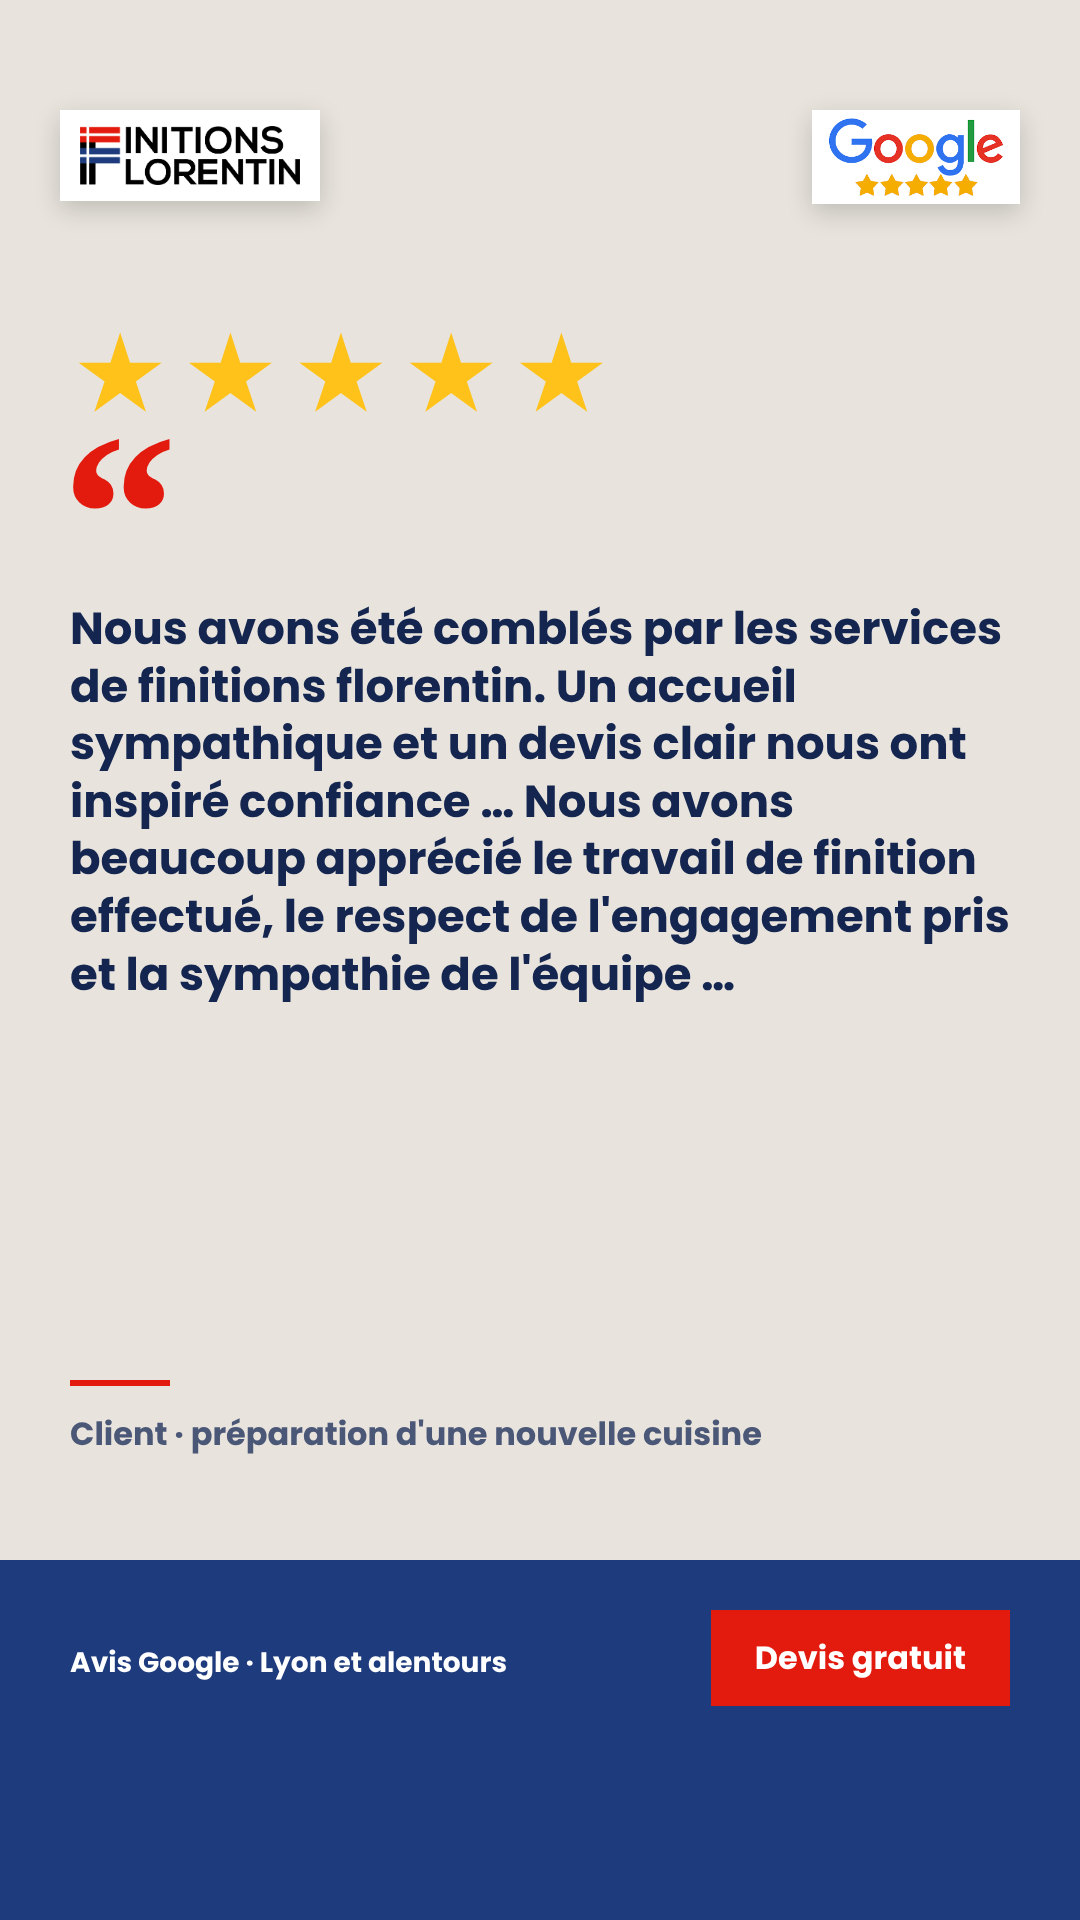
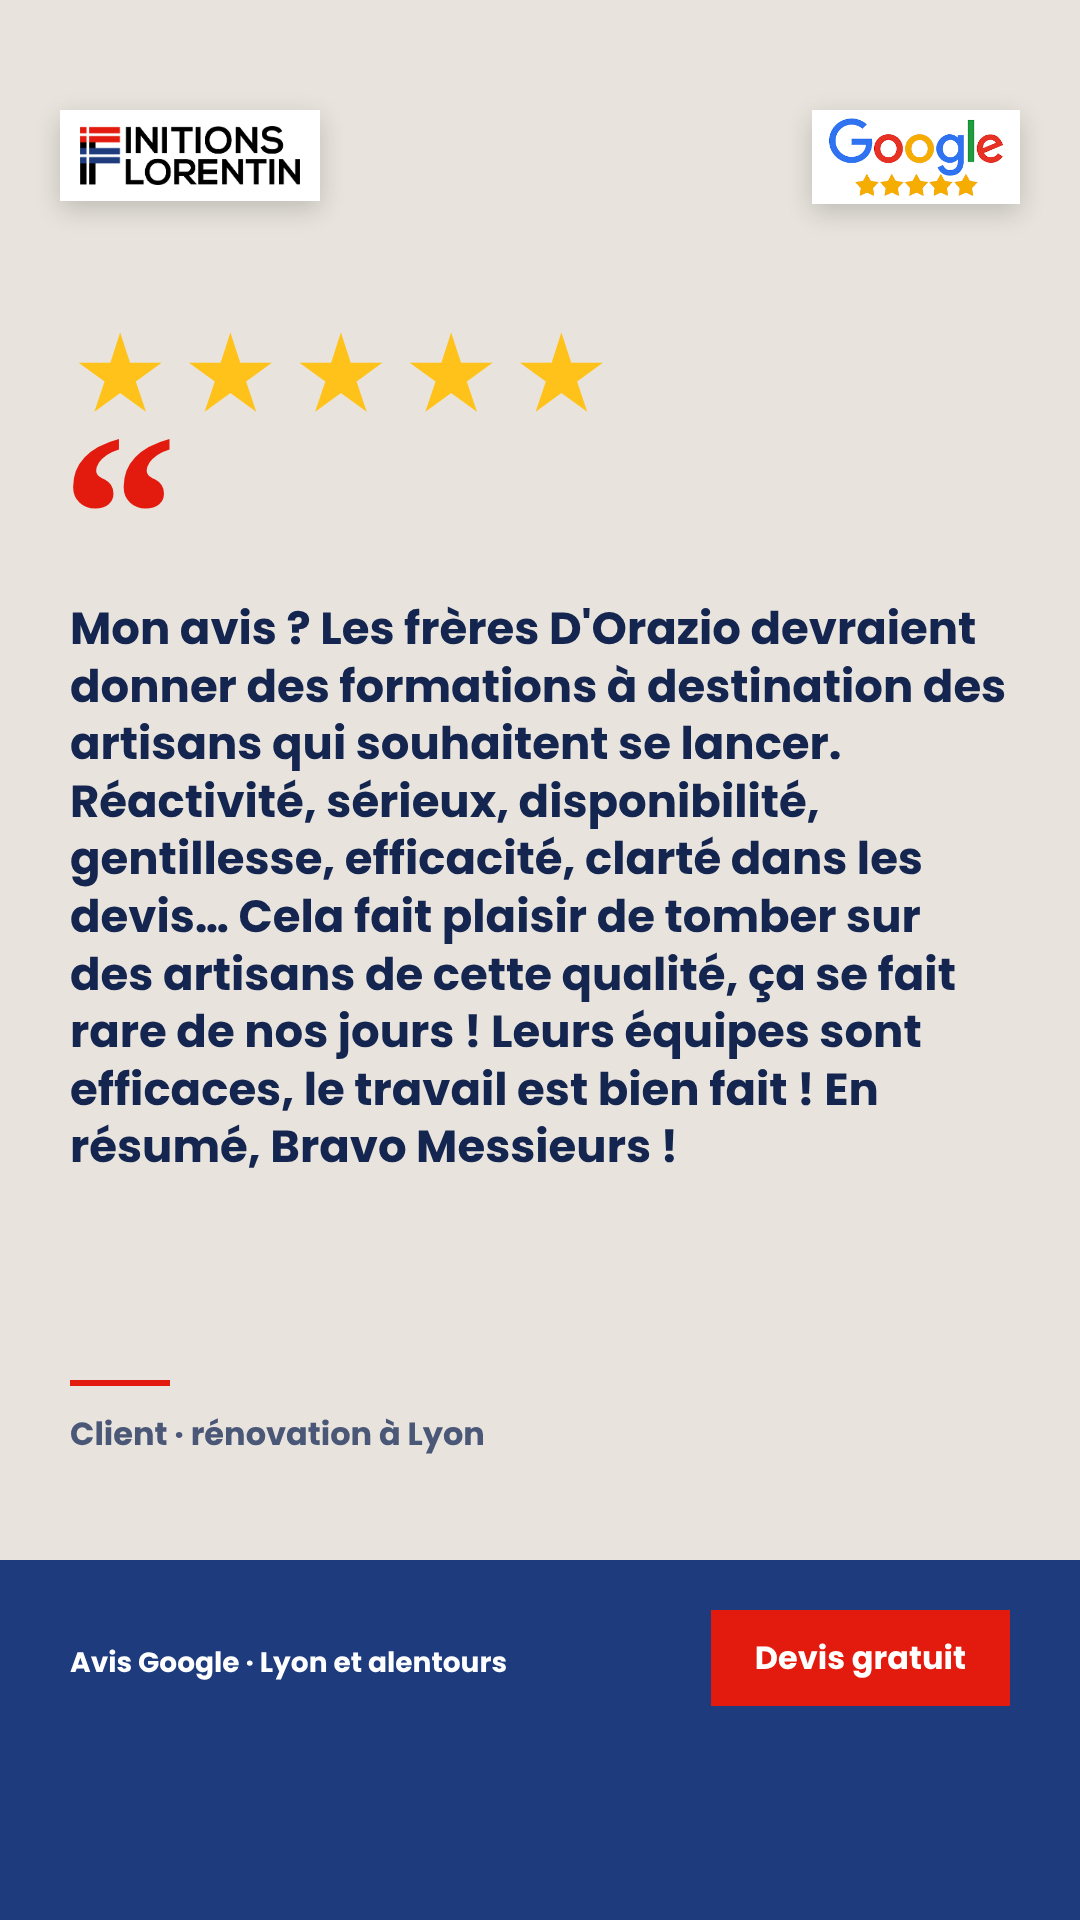
Stories avis: sans Josephine (9 stories)
Claude-Session: https://claude.ai/code/session_01LyxsXe8xqb1EZ7c4QQAmih

Changed region(s): [[0.0611, 0.3125, 0.9472, 0.625], [0.2444, 0.7188, 0.7028, 0.75], [0.1833, 0.7188, 0.2139, 0.75]]

diff --git a/tools/story_avis.py b/tools/story_avis.py
@@ -14,7 +14,6 @@ AVIS=[
 ("Le chantier a été rapide, bien préparé au préalable, et les travaux très bien effectués. Le suivi client a également été très satisfaisant. Je recommande donc cette entreprise que je remercie par ailleurs pour son professionnalisme.","Client · rénovation d'un appartement"),
 ("Monsieur D'Orazio et son équipe sont intervenus avec une contrainte, de mon côté, de travaux à réaliser au plus vite. Les délais ont été respectés et la qualité était au rendez-vous ! Je recommande grandement Finitions Florentin et son équipe. Un grand merci pour leur professionnalisme !","Client · travaux à réaliser au plus vite"),
 ("Nous avons fait appel à la société Finitions Florentin pour refaire notre salle de bains et notre wc (murs, plafond, carrelage, peinture et sol). Travail soigné, employé efficace et les patrons … sont facilement joignables et à l'écoute.","Client · salle de bains et WC"),
-("Nous avons été comblés par les services de finitions florentin. Un accueil sympathique et un devis clair nous ont inspiré confiance … Nous avons beaucoup apprécié le travail de finition effectué, le respect de l'engagement pris et la sympathie de l'équipe …","Client · préparation d'une nouvelle cuisine"),
 ("Mon avis ? Les frères D'Orazio devraient donner des formations à destination des artisans qui souhaitent se lancer. Réactivité, sérieux, disponibilité, gentillesse, efficacité, clarté dans les devis… Cela fait plaisir de tomber sur des artisans de cette qualité, ça se fait rare de nos jours ! Leurs équipes sont efficaces, le travail est bien fait ! En résumé, Bravo Messieurs !","Client · rénovation à Lyon"),
 ]
 BASE=f'''*{{margin:0;box-sizing:border-box}}body{{width:1080px;height:1920px;position:relative;overflow:hidden;font-family:Poppins,sans-serif;background:{T["bg"]};color:{T["t"]}}}
@@ -54,7 +53,7 @@ def outro():
 async def main(out):
     from playwright.async_api import async_playwright
     os.makedirs(out,exist_ok=True)
-    pages=[("avis_0_intro",intro())]+[(f"avis_{i}",avis(i,t,w)) for i,(t,w) in enumerate(AVIS,1)]+[("avis_9_merci",outro())]
+    pages=[("avis_0_intro",intro())]+[(f"avis_{i}",avis(i,t,w)) for i,(t,w) in enumerate(AVIS,1)]+[("avis_8_merci",outro())]
     async with async_playwright() as p:
         br=await p.chromium.launch(executable_path="/usr/bin/google-chrome",args=["--no-sandbox"])
         pg=await br.new_page(viewport={"width":1080,"height":1920})
